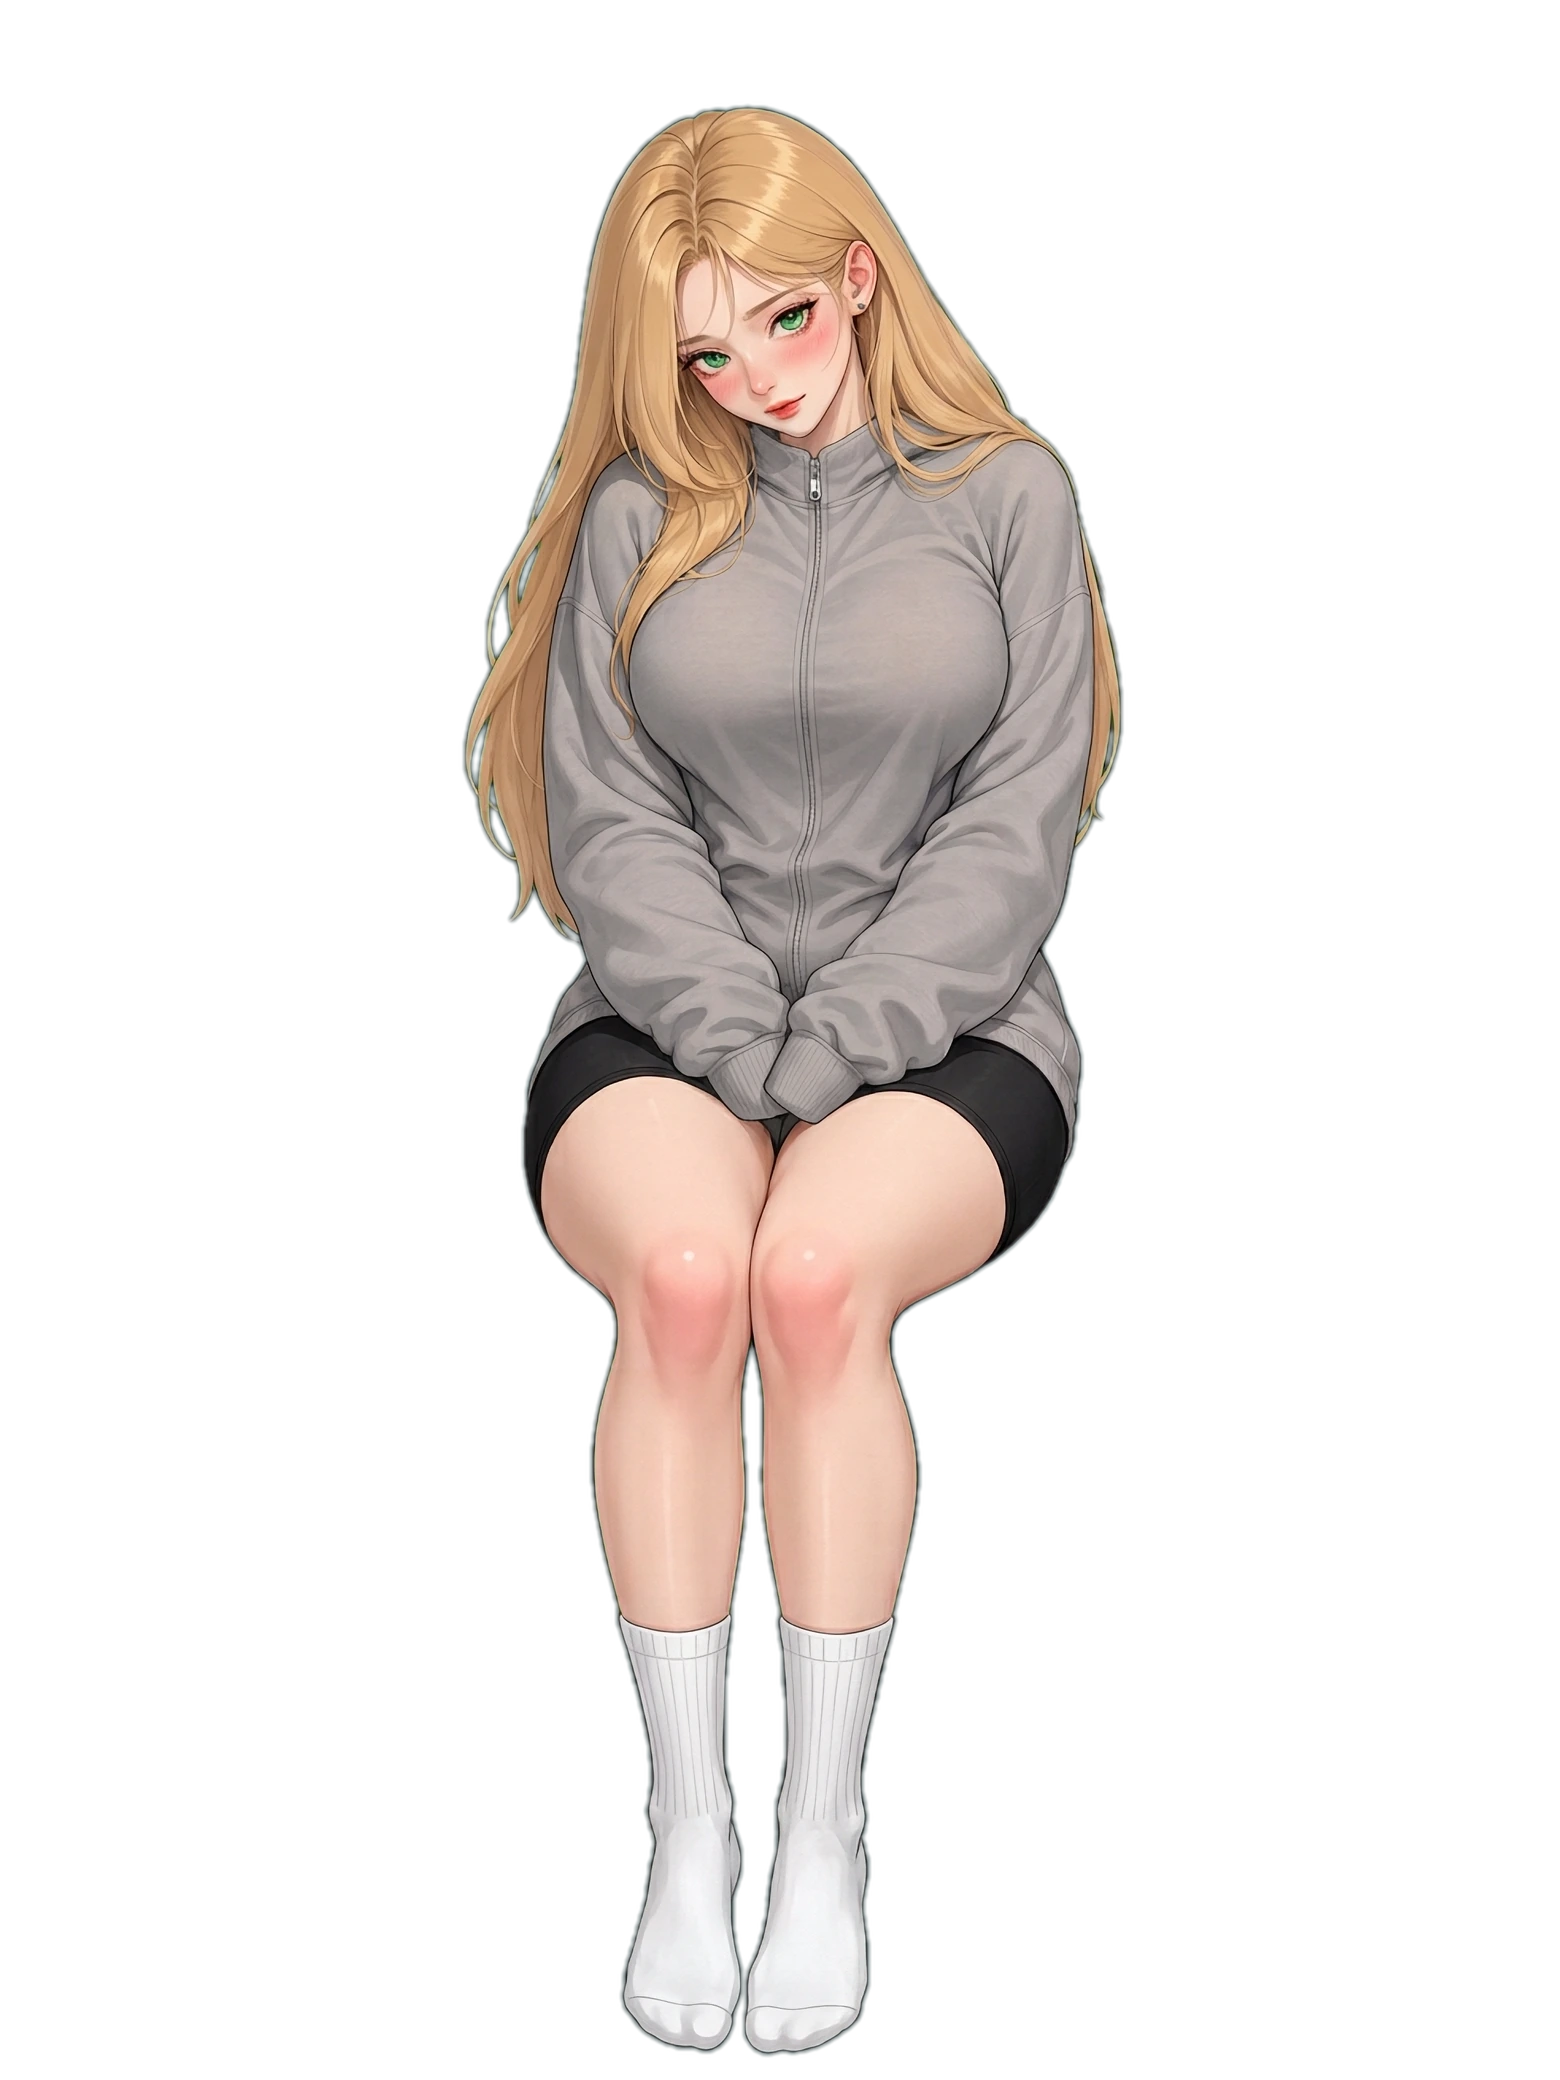
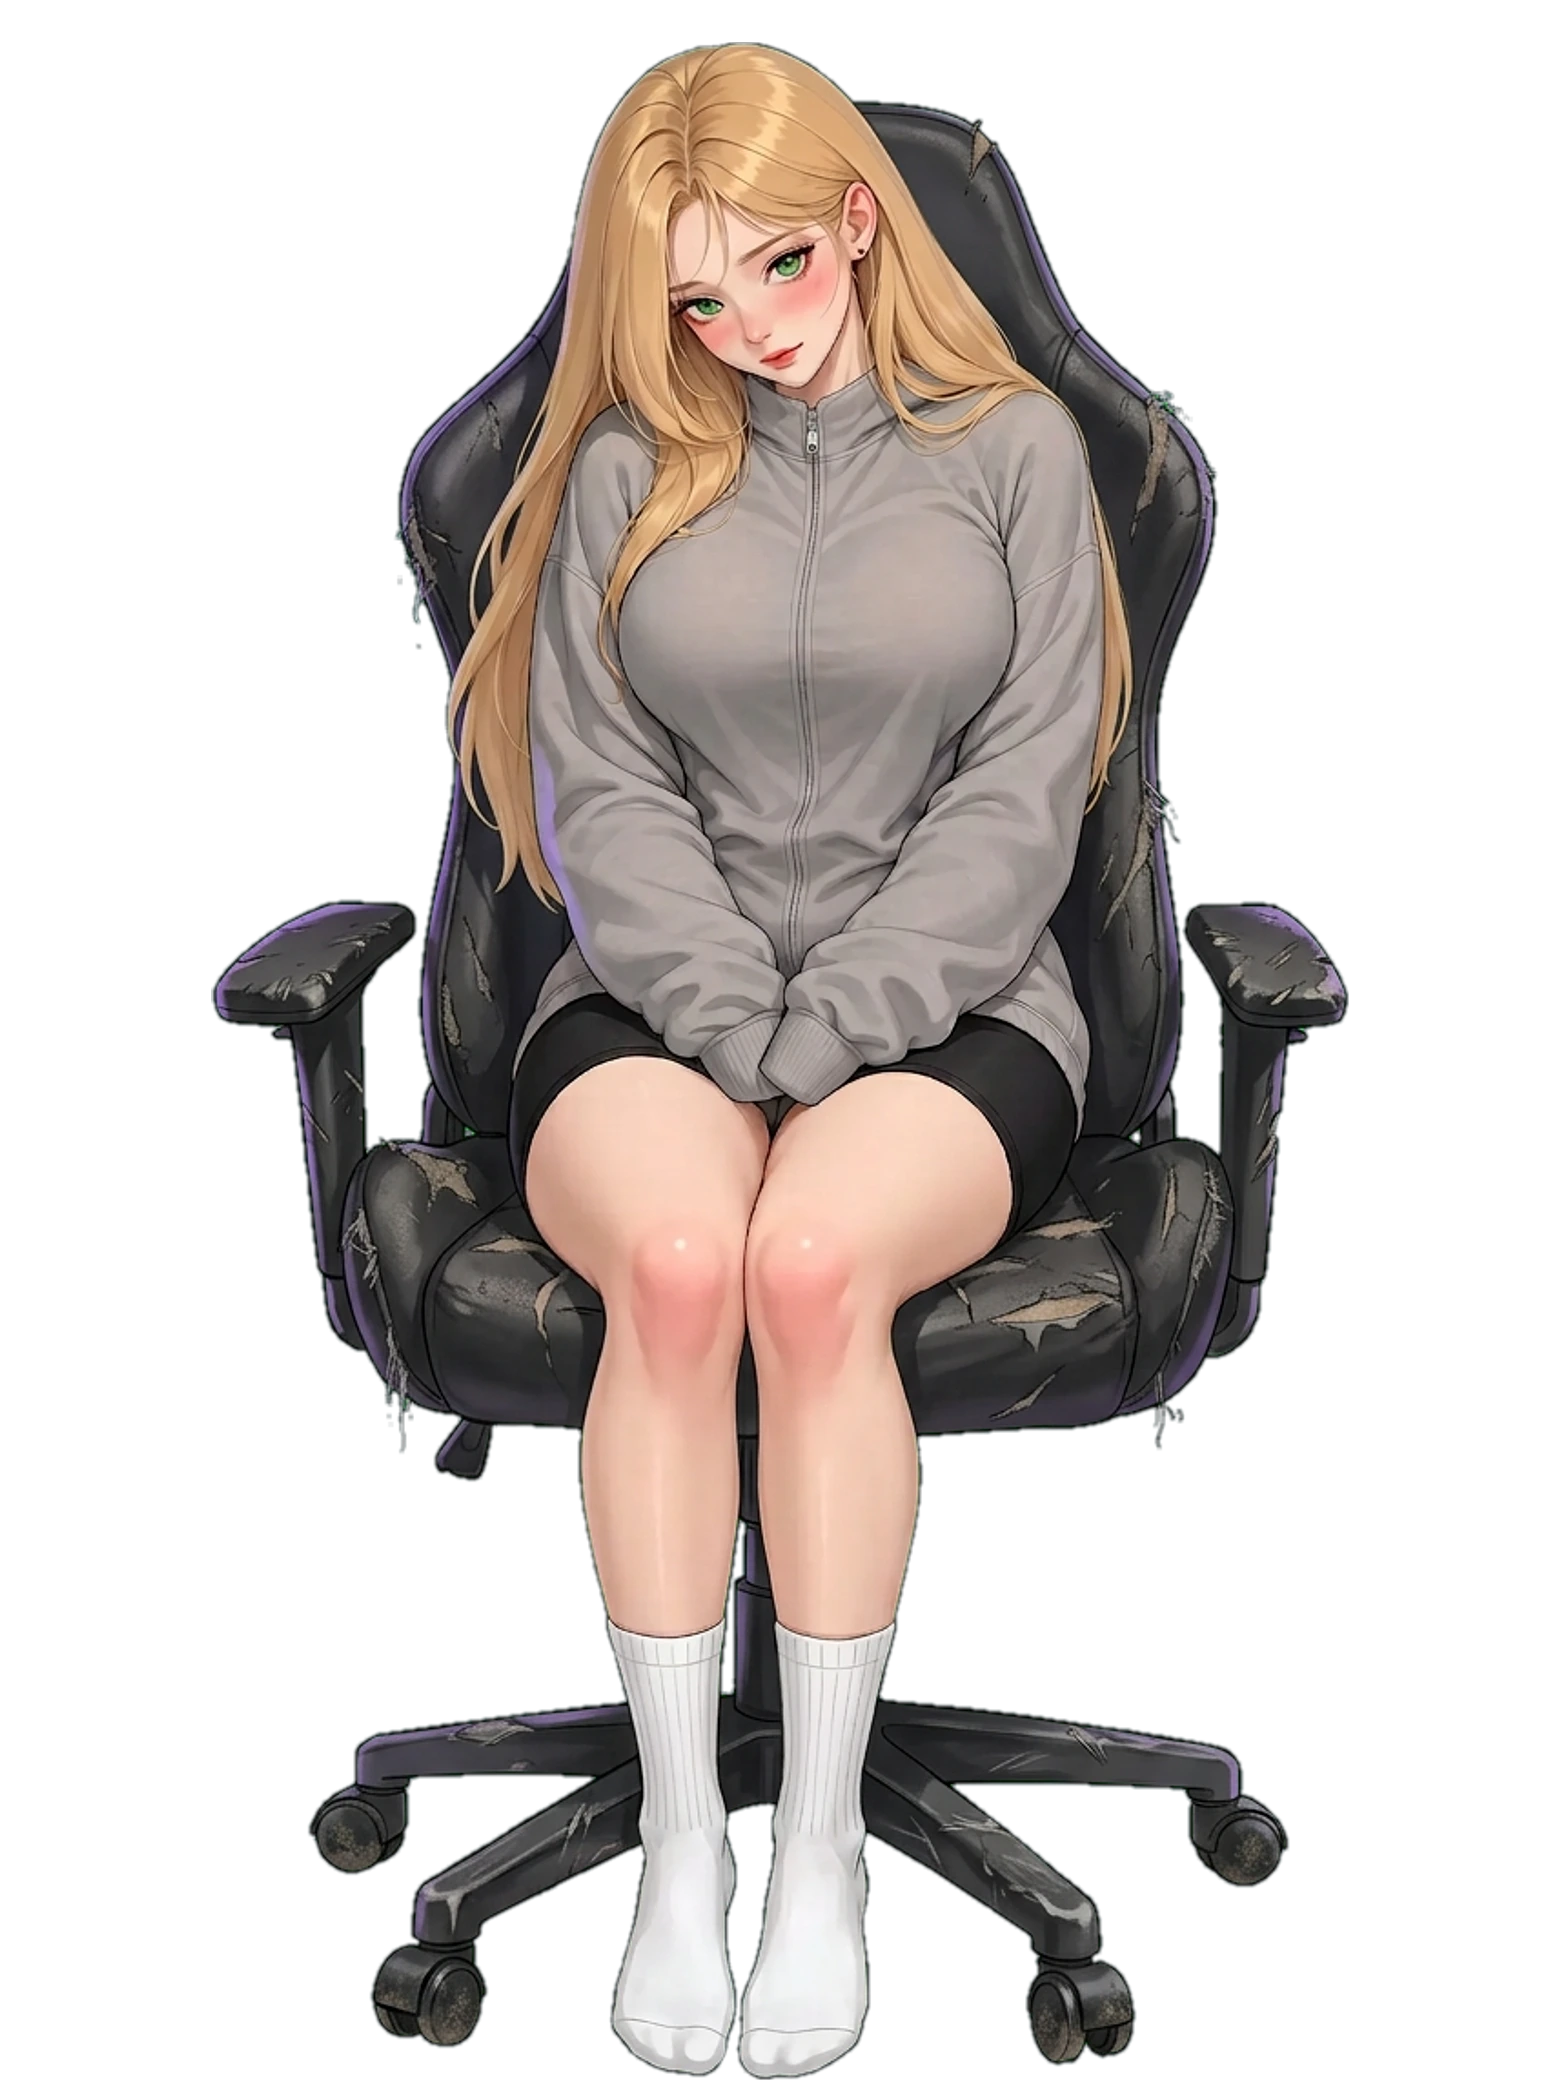
Regenerate the approved Day-1 set: same heroine, same four poses, now seated on a worn-out gaming chair baked into the frame. Drop the separate chair layer and the chair shop tier; new prep pipeline tools/prep_arts.mjs

Changed region(s): [[0.1231, 0.0, 0.8615, 1.0]]

diff --git a/index.html b/index.html
@@ -986,47 +986,6 @@ main{
   background:radial-gradient(55% 68% at 50% 100%, rgba(145,70,255,.42), rgba(77,227,255,.12) 46%, transparent 72%);
   transition:background .5s ease;
 }
-/* ---- кресло: сгенерированный спрайт, посадка подгоняется под позу ---- */
-.hero-chair{
-  position:absolute; inset:0; z-index:2; pointer-events:none; opacity:0;
-  transition:opacity .4s ease;
-  /* tier-1 офисный стул по умолчанию */
-  --ch-h:85.1%; --ch-t:18.2%; --ch-clip:0%; --ch-sway:0deg;
-}
-#scene.chair-1 .hero-chair, #scene.chair-2 .hero-chair, #scene.chair-3 .hero-chair{ opacity:1; }
-
-/* размеры (в % высоты сцены): спинка выше, база на полу */
-#scene.chair-1 .hero-chair{ --ch-h:85.1%; --ch-t:18.2%; }
-#scene.chair-2 .hero-chair{ --ch-h:92.6%; --ch-t:8.3%; }
-#scene.chair-3 .hero-chair{ --ch-h:92.1%; --ch-t:12.7%; }
-
-/* поза 3 — нога на ногу: она сидит выше, кресло поднимаем */
-#scene.stage-3.chair-1 .hero-chair{ --ch-t:13.7%; }
-#scene.stage-3.chair-2 .hero-chair{ --ch-t:3.8%; }
-#scene.stage-3.chair-3 .hero-chair{ --ch-t:8.2%; }
-
-/* поза 4 — откинулась назад: видна только спинка за плечами и головой */
-#scene.stage-4 .hero-chair{ --ch-clip:47%; --ch-t:1%; --ch-h:91.5%; }
-#scene.stage-4.chair-2 .hero-chair{ --ch-clip:53%; --ch-t:2%; --ch-h:79%; }
-#scene.stage-4.chair-3 .hero-chair{ --ch-clip:50%; --ch-t:2%; --ch-h:84%; }
-
-.chair-img{
-  position:absolute; left:50%; top:var(--ch-t);
-  height:var(--ch-h); width:auto; max-width:none; max-height:none;
-  transform:translateX(-50%);
-  clip-path:inset(0 0 var(--ch-clip) 0);
-  filter:drop-shadow(0 12px 26px rgba(0,0,0,.5));
-  transition:opacity .3s ease;
-}
-/* мягкая тень на полу под крестовиной (в позе 4 её нет — база за кадром) */
-.hero-chair::after{
-  content:''; position:absolute; left:0; right:0; margin:0 auto;
-  bottom:.8%; width:54%; height:4%; border-radius:50%;
-  background:radial-gradient(closest-side, rgba(0,0,0,.5), transparent 74%);
-  filter:blur(3px);
-}
-#scene.stage-4 .hero-chair::after{ display:none; }
-
 .hero-mic{
   position:absolute; right:-4%; bottom:0; width:44%; height:56%;
   z-index:2; pointer-events:none; opacity:0; transition:opacity .45s ease;
@@ -1177,9 +1136,6 @@ main{
       <div class="hero" id="scene">
         <img class="art-bg" id="artBg" alt="" aria-hidden="true" />
         <div class="hero-glow" aria-hidden="true"></div>
-        <div class="hero-chair" aria-hidden="true">
-          <img class="chair-img" id="chairImg" src="assets/chair_office.webp" alt="" decoding="async" />
-        </div>
         <div class="hero-mic" aria-hidden="true"></div>
 
         <div class="art-lean" id="artLean">
@@ -1529,12 +1485,6 @@ const DAY_STAGES = [
 /* ---------- UPGRADE CATALOG ---------- */
 const UPGRADES = [
   {
-    id: 'chair', icon: '🪑', name: 'Кресло',
-    tiers: ['Офисный стул', 'Розовое геймерское с ушками', 'Кожаный трон'],
-    prices: [0, 450, 2600],
-    effect: 'комфорт → рост зрителей'
-  },
-  {
     id: 'mic', icon: '🎙', name: 'Микрофон',
     tiers: ['Петличка', 'Студийный HyperX', 'HyperX на пантографе'],
     prices: [0, 600, 3200],
@@ -1553,6 +1503,8 @@ const UPGRADES = [
     effect: 'чёткость → пассив и онлайн'
   }
 ];
+
+const UP_BY_ID = Object.fromEntries(UPGRADES.map(u => [u.id, u]));
 
 /* ---------- CHAT PERSONAS ---------- */
 const USERS = [
@@ -2147,9 +2099,9 @@ function renderHUD(){
   if (el.earnGiftSubs) el.earnGiftSubs.textContent = state.giftSubs;
   if (el.giftRate) el.giftRate.textContent = (state.giftSubs * GIFT_RATE).toFixed(2);
   if (el.camBoost) el.camBoost.textContent = state.up.cam
-    ? `${UPGRADES[3].tiers[state.up.cam]} — ×${camMult().toFixed(2)} к заработку`
+    ? `${UP_BY_ID.cam.tiers[state.up.cam]} — ×${camMult().toFixed(2)} к заработку`
     : 'Webcam 720p — без бонуса';
-  if (el.camTag) el.camTag.textContent = state.up.cam ? UPGRADES[3].tiers[state.up.cam].split(' ')[0] : '';
+  if (el.camTag) el.camTag.textContent = state.up.cam ? UP_BY_ID.cam.tiers[state.up.cam].split(' ')[0] : '';
   const gsBits = document.getElementById('gsBits');
   const gsSubs = document.getElementById('gsSubs');
   if (gsBits) gsBits.textContent = fmt(Math.floor(state.bits));
@@ -2652,21 +2604,11 @@ const UP_IDS = ['chair', 'mic', 'light', 'cam'];
 
 function admProgressPct(){ return clamp(state.progress / goalTarget(), 0, 1); }
 
-const CHAIR_ART = { 1: 'assets/chair_office.webp', 2: 'assets/chair_pink.webp', 3: 'assets/chair_throne.webp' };
-/* тихо прогреваем остальные тиры, чтобы апгрейд не мигал белым */
-setTimeout(() => {
-  [2, 3].forEach(t => { const im = new Image(); im.src = CHAIR_ART[t]; });
-}, 2500);
 function applyUpClasses(){
   UP_IDS.forEach(k => [1, 2, 3].forEach(v => el.scene.classList.remove(`${k}-${v}`)));
   Object.entries(state.up).forEach(([k, v]) => {
     if (k !== 'chair' && v > 0) el.scene.classList.add(`${k}-${v}`);
   });
-  /* дешёвый tier-1 стул у неё всегда — первый платный апгрейд это уже «геймерское» */
-  const lvl = Math.max(1, Math.min(3, (state.up.chair || 0) + 1));
-  if (el.scene) el.scene.classList.add('chair-' + lvl);
-  const img = document.getElementById('chairImg');
-  if (img && img.getAttribute('src') !== CHAIR_ART[lvl]) img.setAttribute('src', CHAIR_ART[lvl]);
 }
 function admUpClasses(){ applyUpClasses(); }
 
